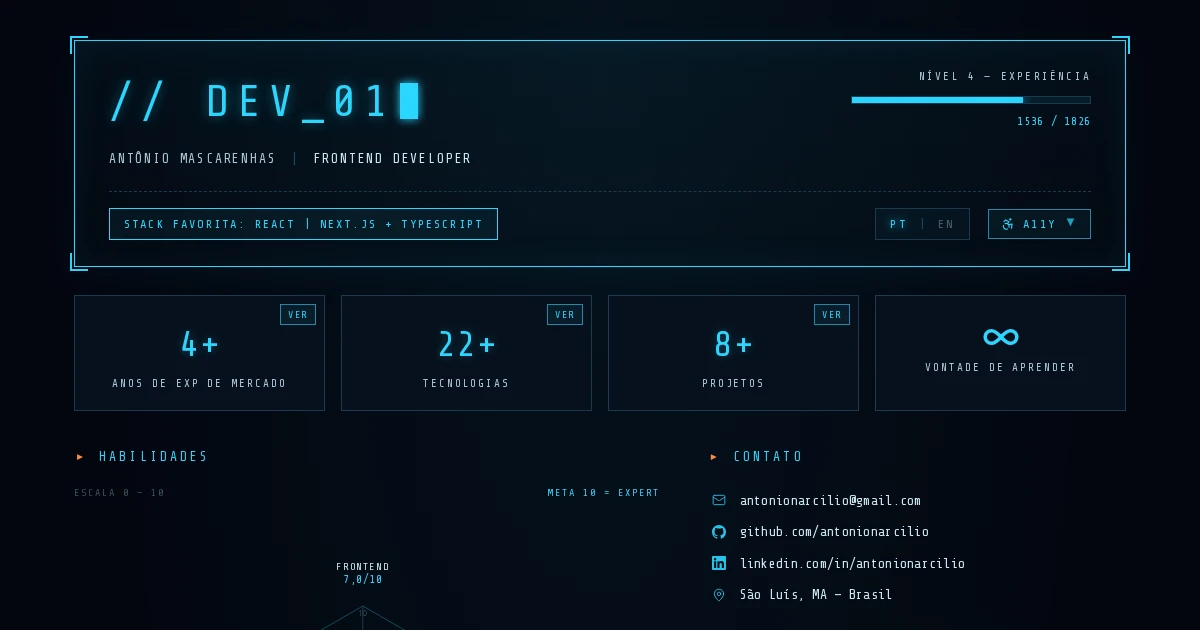
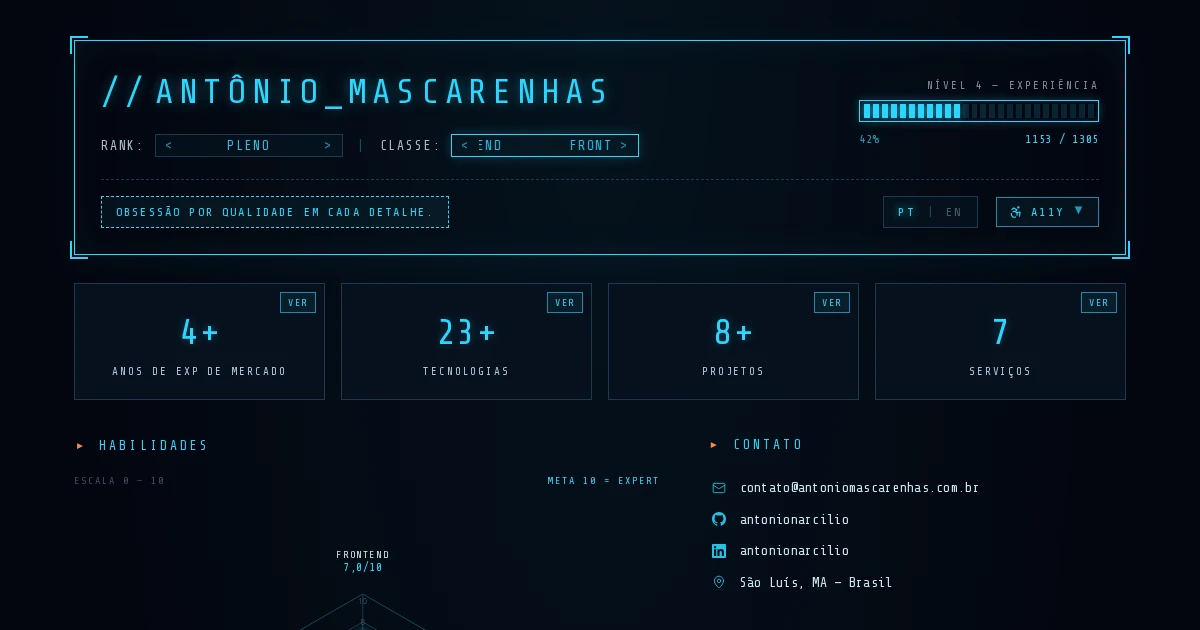
♻ refactor(features/gamer): extrai carregamento do portfólio para get-portfolio e torna página assíncrona
- Cria src/features/gamer/data/get-portfolio.ts que faz fetch em
/api/portfolio com cache 'force-cache' e fallback para os dados locais
- Atualiza src/app/portfolios/gamer/page.tsx para importar getPortfolio,
buscar dados em generateMetadata e exportar o componente como async
- Adiciona dependência "server-only" em package.json e usa 'server-only'
no utilitário de dados
- Garante estabilidade do build quando a API estiver offline, mantendo
fonte local como fallback

diff --git a/src/features/gamer/data/get-portfolio.ts b/src/features/gamer/data/get-portfolio.ts
@@ -1,0 +1,26 @@
+import 'server-only';
+
+import { env } from '@/env';
+import type { PortfolioData } from '@/features/gamer/types/portfolio';
+
+import { portfolioData } from './portfolio-data';
+
+/**
+ * Obtém os dados do portfólio via BFF (`/api/portfolio`).
+ *
+ * Usa `force-cache` por se tratar de conteúdo estático (revalida em novo deploy).
+ * Caso o fetch falhe — tipicamente durante o `next build`, com o servidor offline —
+ * faz fallback para a fonte local de verdade, mantendo o build estável.
+ */
+export async function getPortfolio(): Promise<PortfolioData> {
+  try {
+    const res = await fetch(`${env.MY_DOMAIN}/api/portfolio`, {
+      cache: 'force-cache',
+    });
+    if (!res.ok) throw new Error(`GET /api/portfolio failed: ${res.status}`);
+    return (await res.json()) as PortfolioData;
+  } catch {
+    // Fallback de build / API offline: usa a fonte local de verdade.
+    return portfolioData;
+  }
+}

diff --git a/src/app/portfolios/gamer/page.tsx b/src/app/portfolios/gamer/page.tsx
@@ -1,10 +1,11 @@
 import { env } from '@/env';
 import PortfolioClient from '@/features/gamer/components/portfolio-client';
-import { portfolioData } from '@/features/gamer/data/portfolio-data';
+import { getPortfolio } from '@/features/gamer/data/get-portfolio';
 import { calcTotalCareerYears } from '@/features/gamer/utils/career-years';
 import type { Metadata } from 'next';
 
 export async function generateMetadata(): Promise<Metadata> {
+  const portfolioData = await getPortfolio();
   const { name, role, skills } = portfolioData;
 
   const years = calcTotalCareerYears(portfolioData.experience);
@@ -48,7 +49,8 @@ export async function generateMetadata(): Promise<Metadata> {
   };
 }
 
-export default function GamerPage() {
+export default async function GamerPage() {
+  const portfolioData = await getPortfolio();
   const { name, role, githubUrl, linkedinUrl } = portfolioData;
 
   const jsonLd = {
